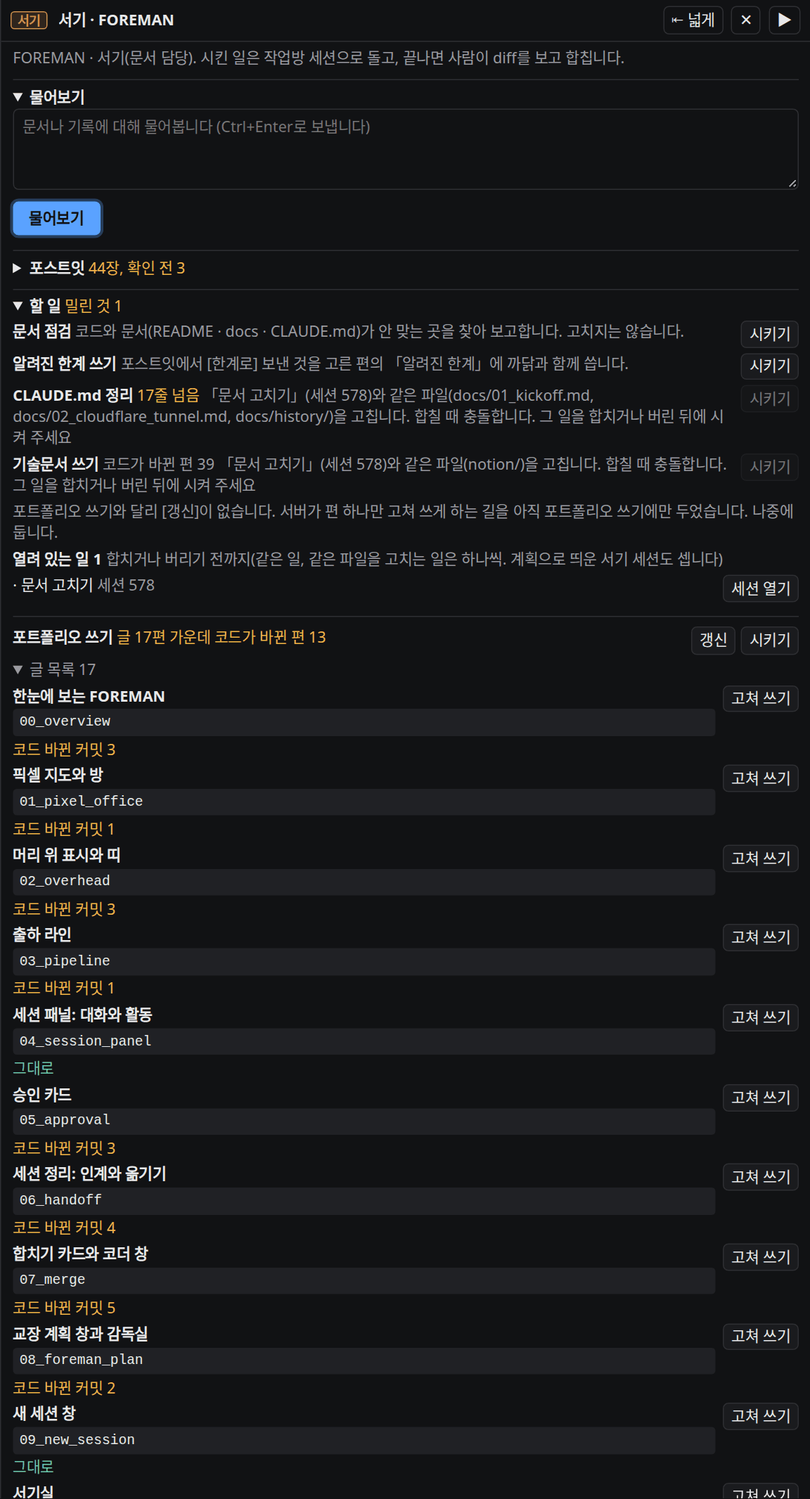
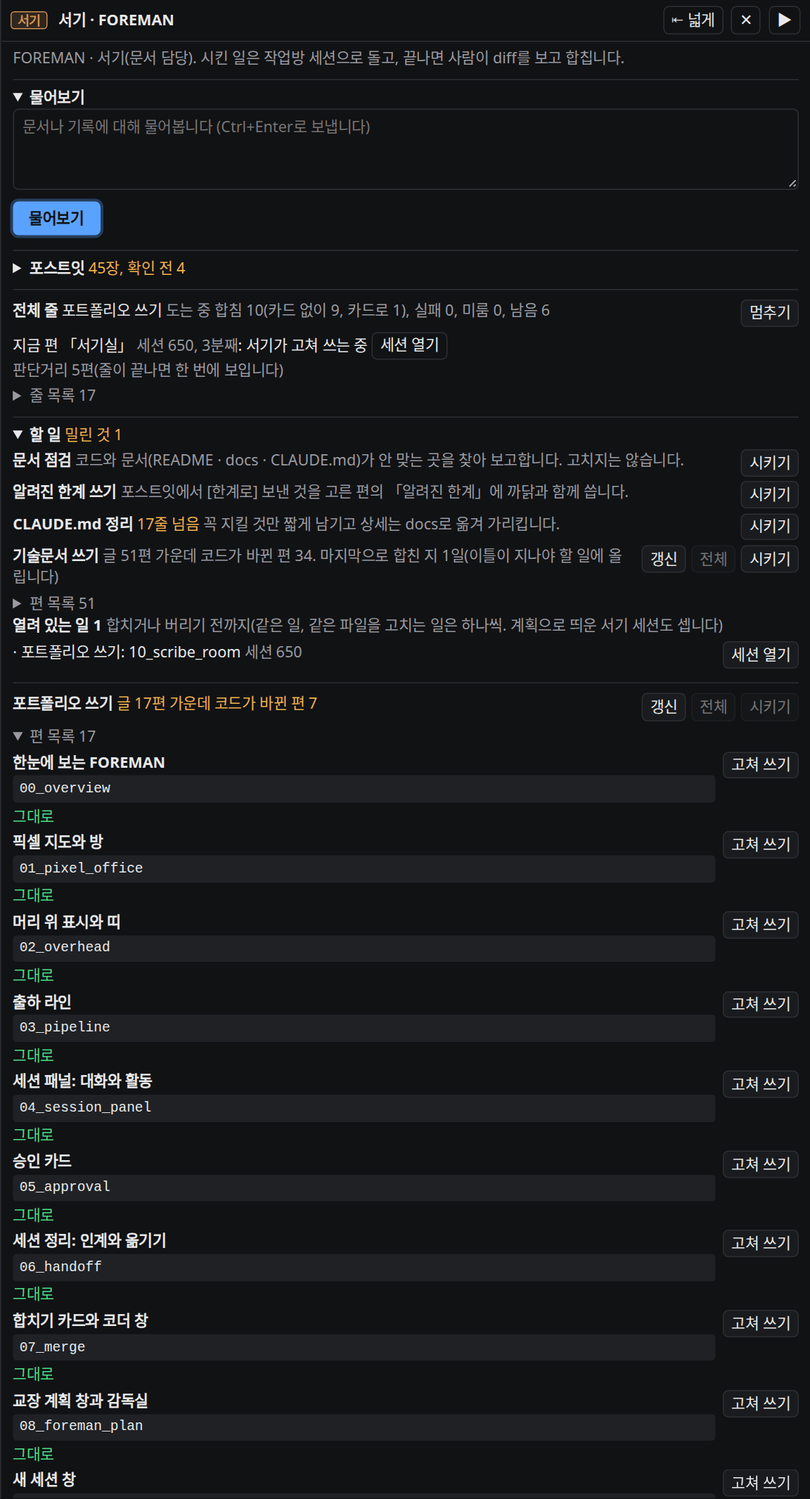
docs: 서기실 포트폴리오와 사진을 지금 화면에 맞춤
세션 650의 일(서기, 포트폴리오 쓰기: 서기실)을 커밋 2개에서 하나로 묶었다. 작업한 브랜치는 cc/foreman-4이다.

원래 커밋(오래된 차례):
- 2026-11-20 16:07 5965a23 docs: 서기실 포트폴리오를 지금 코드에 맞춤
- 2026-11-20 16:08 bd88fdf docs: 서기실 패널 사진 설명을 사진에 맞춤

원래 커밋 보기: git log refs/foreman/squashed/bd88fdfdc9b1 (이 저장소에만 있고 push되지 않는다)

diff --git a/portfolio/10_scribe_room.md b/portfolio/10_scribe_room.md
@@ -1,15 +1,15 @@
 <!--
 다루는 곳: bridge/static/js/scribe.js, bridge/scribe_room.py, bridge/scribe_queue.py, bridge/scribe_ask.py, bridge/notion.py, bridge/docsync.py, bridge/manuscript.py, bridge/api/scribe.py, bridge/api/publish.py, config/notion.toml
-읽은 커밋: fb7121b
+읽은 커밋: f0347d6
 -->
 
 # 서기실
 
 > 이 글은 문서 담당 서기에게 문서 일을 시키고, 문서에 대해 묻고, 글을 Notion에 올리는 서기실 창을 다룹니다.
 
-**프로젝트마다 문서를 맡은 서기가 있고, 서기를 누르면 서기실 창이 열립니다. 브리지가 AI 없이 센 밀린 문서 일이 한 목록으로 보이고, [시키기]를 누르면 서기 세션이 작업방에서 그 일을 한 뒤 사람이 고친 내용을 보고 합칩니다. 세션을 띄우지 않고 문서에 대해 한 번 묻는 [물어보기]와, 포트폴리오와 기술문서를 Notion에 올리는 게시도 같은 창에 있습니다.**
+**프로젝트마다 문서를 맡은 서기가 있고, 서기를 누르면 서기실 창이 열립니다. 브리지가 AI 없이 센 밀린 문서 일이 한 목록으로 보이고, [시키기]를 누르면 서기 세션이 작업방에서 그 일을 한 뒤 사람이 고친 내용을 보고 합칩니다. 바뀐 편이 여럿이면 [전체]로 줄을 세워 한 편씩 맡깁니다. 세션을 띄우지 않고 문서에 대해 한 번 묻는 [물어보기]와, 포트폴리오와 기술문서를 Notion에 올리는 게시도 같은 창에 있습니다.**
 
-![FOREMAN 방입니다. 필사실 서기 자리에 「포스트잇 쌓임」이 떠 있고, 오른쪽 패널이 서기실 창입니다. 위에서부터 물어보기, 「포스트잇 44장, 확인 전 3」, 「할 일 밀린 것 1」, 「열려 있는 일 1」, 「포트폴리오 쓰기 글 17편 가운데 코드가 바뀐 편 13」, 「포트폴리오 게시 게시됨 17」, 「기술문서 게시 게시됨 51」이 있습니다. 장 수와 편 수는 찍은 때의 것입니다 〔실제 화면〕](img/10_scribe_room.png)
+![FOREMAN 방입니다. 필사실 서기 자리에 「포스트잇 쌓임」이 떠 있고, 오른쪽 패널이 서기실 창입니다. 위에서부터 물어보기, 「포스트잇 45장, 확인 전 4」, 포트폴리오 쓰기 전체 줄(지금 편 「서기실」, 합침 10, 남음 6), 「할 일 밀린 것 1」과 일 네 줄, 「열려 있는 일 1」, 「포트폴리오 쓰기 글 17편 가운데 코드가 바뀐 편 7」, 「포트폴리오 게시」가 있습니다. 장 수와 편 수는 찍은 때의 것입니다 〔실제 화면〕](img/10_scribe_room.png)
 
 이 프로젝트에서 글은 네 군데에 남습니다. 언제 무엇을 했는지는 GitHub 커밋 기록이, 세션이 일할 때 읽는 지금 상태와 결정의 까닭은 저장소의 `docs/`가, 사람이 읽는 가장 자세한 설명은 Notion 기술문서가, 비개발자도 읽는 화면 소개는 이 포트폴리오가 맡습니다 [docs:12_scribe.md]. 코드가 바뀌면 이 글들도 따라 바뀌어야 하는데, 코드를 고치는 세션이 문서까지 늘 챙기지는 못합니다. 서기는 그 틈을 맡는 문서 담당 세션이고, 서기실은 서기에게 무엇이 밀려 있는지 보여 주고 일을 시키는 창입니다.
 
@@ -21,44 +21,52 @@
 
 ## 할 일과 시키기
 
-![서기실 창 위쪽입니다. 「물어보기」 칸, 접힌 「포스트잇 44장, 확인 전 3」, 「할 일 밀린 것 1」 아래 문서 점검, 알려진 한계 쓰기, CLAUDE.md 정리(17줄 넘음), 기술문서 쓰기(코드가 바뀐 편 39)와 줄마다 [시키기]가 있습니다. CLAUDE.md 정리와 기술문서 쓰기는 열려 있는 일과 같은 파일을 고쳐 [시키기]가 잠겼습니다. 그 아래 「열려 있는 일 1」과 [세션 열기], 「포트폴리오 쓰기」와 펼친 편 목록(사진에는 전 이름 「글 목록 17」, 편마다 「코드 바뀐 커밋 N」이나 「그대로」와 [고쳐 쓰기])이 있습니다 〔실제 화면〕](img/10_scribe_room_panel.png)
+![서기실 창입니다. 위에서부터 「물어보기」 칸, 접힌 「포스트잇 45장, 확인 전 4」, 전체 줄 칸([멈추기], 지금 편과 [세션 열기], 「판단거리 5편」, 접힌 「줄 목록 17」), 「할 일 밀린 것 1」 아래 문서 점검, 알려진 한계 쓰기, CLAUDE.md 정리(「17줄 넘음」), 기술문서 쓰기([갱신] [전체] [시키기]와 접힌 「편 목록 51」), 「열려 있는 일 1」이 있습니다. 그 아래 「포트폴리오 쓰기」 줄의 「편 목록 17」을 펼쳤고, 보이는 편은 모두 「그대로」와 [고쳐 쓰기]입니다. 이 편이 줄에서 도는 중이라 포트폴리오 쓰기의 [전체]와 [시키기]는 잠겨 있습니다 〔실제 화면〕](img/10_scribe_room_panel.png)
 
-「할 일」은 서기에게 시킬 수 있는 일 한 목록입니다. 줄마다 일 이름과 하는 일 한 줄, 그리고 밀린 정도가 붙습니다. 이 밀린 정도는 AI가 아니라 브리지가 기계로 셉니다. 규칙 파일(CLAUDE.md)이 정한 줄 수를 넘으면 「14줄 넘음」, 단계 설계 문서는 있는데 결과 기록이 없으면 「결과 없는 단계 N개」, 기술문서가 다루는 코드가 바뀌었으면 「코드가 바뀐 편 N」처럼 뜹니다. 숫자가 없으면 지금 밀린 것이 없다는 뜻입니다. 세지 못했을 때는 0으로 보이지 않고 「읽지 못했습니다」로 보입니다 [code:bridge/static/js/scribe.js].
+「할 일」은 서기에게 시킬 수 있는 일 한 목록입니다. 머리에는 밀린 일 수가 「밀린 것 N」으로 붙고, 밀린 것이 없으면 「밀린 것 없음」입니다. 줄마다 일 이름과 하는 일 한 줄, 그리고 밀린 정도가 붙습니다. 이 밀린 정도는 AI가 아니라 브리지가 기계로 셉니다. 규칙 파일(CLAUDE.md)이 정한 줄 수를 넘으면 「17줄 넘음」, 단계 설계 문서는 있는데 결과 기록이 없으면 「결과 없는 단계 N개」, 기술문서가 다루는 코드가 바뀌었으면 「코드가 바뀐 편 N」처럼 뜹니다. 숫자가 없으면 지금 밀린 것이 없다는 뜻입니다. 세지 못했을 때는 0으로 보이지 않고 「읽지 못했습니다」로 보입니다 [code:bridge/static/js/scribe.js] [code:bridge/scribe_room.py].
 
 | 일 | 하는 것 |
 |---|---|
 | 문서 점검 | 코드와 문서(README, docs, CLAUDE.md)가 안 맞는 곳을 찾아 보고합니다. 고치지는 않습니다 |
 | 알려진 한계 쓰기 | 포스트잇에서 [한계로] 보낸 것을 사람이 고른 편의 「알려진 한계」에 까닭과 함께 씁니다. 무엇이 한계인지는 원고 쓰는 기준이 정하고, 한계가 아닌 줄은 쓰지 않고 까닭을 알립니다 |
 | CLAUDE.md 정리 | 꼭 지킬 것만 짧게 남기고 자세한 것은 docs로 옮겨 가리킵니다 |
-| 기술문서 쓰기 | 코드를 읽고 Notion 기술문서 원고를 씁니다(원고 폴더를 따로 둔 프로젝트만). 포트폴리오 쓰기처럼 [갱신]과 펼치는 편 목록으로 한 편만 골라 고쳐 쓰게 할 수도 있습니다 |
-| 포트폴리오 쓰기 | 보여줄 화면이 있으면 화면마다, 없으면 결정마다 편 목록을 정해 비개발자도 읽을 글을 씁니다(아래) |
+| 기술문서 쓰기 | 코드를 읽고 Notion 기술문서 원고를 씁니다(원고 폴더를 따로 둔 프로젝트만). 줄에는 「글 N편 가운데 코드가 바뀐 편 M」과 마지막으로 합친 지 며칠인지가 보입니다 |
+| 포트폴리오 쓰기 | 보여줄 화면이 있으면 화면마다, 없으면 결정마다 편 목록을 정해 비개발자도 읽을 글을 씁니다. 할 일 목록 밖, 게시 줄 바로 위에 따로 있습니다(아래) |
 
-[시키기]를 누르면 서기 세션이 작업방으로 떠 그 일을 맡고, 그 일은 「열려 있는 일」에 올라갑니다. 합치거나 버리기 전까지 열려 있는 일과 같은 일, 또는 같은 파일을 고치는 일은 [시키기]가 잠기고 호버에 까닭이 나옵니다(위 사진의 기술문서 쓰기). 서로 다른 파일을 고치는 일은 몇 개든 동시에 시킬 수 있습니다. 열려 있는 일의 [세션 열기]는 그 서기 세션의 [세션 정리] 탭을 열어, 화면에서 사라진 끝난 세션이라도 여기서 찾아 합치거나 버리게 합니다 [docs:12_scribe.md].
+[시키기]를 누르면 서기 세션이 작업방으로 떠 그 일을 맡고, 그 일은 「열려 있는 일」에 올라갑니다. 합치거나 버리기 전까지 열려 있는 일과 같은 일, 또는 같은 파일을 고치는 일은 [시키기]가 잠기고 호버에 까닭이 나옵니다. 서로 다른 파일을 고치는 일은 몇 개든 동시에 시킬 수 있습니다. 열려 있는 일의 [세션 열기]는 그 서기 세션의 [세션 정리] 탭을 열어, 화면에서 사라진 끝난 세션이라도 여기서 찾아 합치거나 버리게 합니다 [docs:12_scribe.md].
+
+문서 점검이 끝나 합쳐지면 그 결과 파일이 문서 점검 줄 아래에 「점검 결과」로 붙고, [바로 고치기]로 거기 적힌 어긋남을 서기에게 고치게 할 수 있습니다. 찾기만 하고 끝나지 않게 하려는 것이고, 고쳐서 합친 결과는 「고쳐서 합쳤습니다」로 바뀌어 같은 결과를 또 고치라고 하지 않습니다 [code:bridge/scribe_room.py].
 
 ## 물어보기
 
-맨 위 「물어보기」 칸은 세션을 띄우지 않고 문서와 기록에 대해 한 번 묻는 곳입니다. 「이 기능은 어느 문서에 있나」, 「README가 지금 코드와 맞나」처럼 적고 [물어보기]를 누르면 보통 20초쯤 뒤 답이 칸 아래에 뜹니다. 서기는 저장소 파일, 최근 포스트잇, 최근 사흘 커밋을 읽고 답하며, 파일을 읽는 도구만 받고 고치는 도구는 받지 않습니다. 답에서 어긋남을 찾았으면 답 아래 [이 답대로 문서 고치기]로 그 답을 고칠 목록 삼아 서기 세션에 맡깁니다. 앞서 물은 것은 기억하지 않으므로, 이어서 일할 것은 [시키기]로 합니다 [code:bridge/scribe_ask.py] [log:scribe_ask_20261110.md].
+맨 위 「물어보기」 칸은 세션을 띄우지 않고 문서와 기록에 대해 한 번 묻는 곳입니다. 「이 기능은 어느 문서에 있나」, 「README가 지금 코드와 맞나」처럼 적고 [물어보기]를 누르면 보통 20초쯤 뒤 답이 칸 아래에 뜹니다. 서기는 저장소 파일, 최근 포스트잇, 최근 사흘 커밋을 읽고 답하며, 파일을 읽는 도구만 받고 고치는 도구는 받지 않습니다. 답에서 어긋남을 찾았으면 답 아래 [이 답대로 문서 고치기]로 그 답을 고칠 목록 삼아 서기 세션에 맡깁니다. 다 본 답은 [답 닫기]로 화면에서 닫습니다. 답은 서버에 남지 않고, 물은 글은 칸에 그대로 남습니다. 앞서 물은 것은 기억하지 않으므로, 이어서 일할 것은 [시키기]로 합니다 [code:bridge/scribe_ask.py] [code:bridge/static/js/scribe.js] [log:scribe_ask_20261110.md].
 
-## 포트폴리오 쓰기
+## 포트폴리오 쓰기와 전체 줄
 
-「포트폴리오 쓰기」 줄은 이 포트폴리오 글이 지금 화면과 얼마나 어긋났는지를 「글 N편 가운데 코드가 바뀐 편 M」으로 보입니다. 편마다 글 맨 위 숨은 주석에 그 편이 설명하는 코드 경로와 글을 쓸 때 읽은 커밋이 적혀 있고, 브리지는 그 뒤에 그 경로를 바꾼 기능 추가나 고침 커밋만 셉니다. [편 목록]을 펼치면 편마다 「코드 바뀐 커밋 n」, 「그대로」, 「셀 수 없음」이 붙습니다. 주석이 없는 옛 편은 바뀌지 않은 것으로 치지 않고 「머리 주석을 읽지 못한 편」으로 따로 셉니다. [갱신]은 코드가 가장 많이 바뀐 편을, 편마다 [고쳐 쓰기]는 그 편을 서기에게 다시 쓰게 하고, 편 없이 [시키기]를 누르면 서기가 보여줄 화면이 있으면 화면마다, 없으면 결정마다 편 목록부터 정합니다 [code:bridge/manuscript.py] [code:bridge/scribe_room.py] [log:foreman-7_scribe_design_20261115.md].
+「포트폴리오 쓰기」 줄은 이 포트폴리오 글이 지금 화면과 얼마나 어긋났는지를 「글 N편 가운데 코드가 바뀐 편 M」으로 보입니다. 편마다 글 맨 위 숨은 주석에 그 편이 설명하는 코드 경로와 글을 쓸 때 읽은 커밋이 적혀 있고, 브리지는 그 뒤에 그 경로를 바꾼 기능 추가나 고침 커밋만 셉니다. [편 목록]을 펼치면 편마다 「코드 바뀐 커밋 n」, 「그대로」, 「셀 수 없음」이 붙습니다. 주석이 없는 옛 편은 바뀌지 않은 것으로 치지 않고 「머리 주석을 읽지 못한 편」으로 따로 셉니다. [갱신]은 코드가 가장 많이 바뀐 편을, 편마다 [고쳐 쓰기]는 그 편을 서기에게 다시 쓰게 하고, 편 없이 [시키기]를 누르면 서기가 보여줄 화면이 있으면 화면마다, 없으면 결정마다 편 목록부터 정합니다. 기술문서 쓰기 줄에도 같은 [갱신], [전체]와 펼치는 편 목록이 있습니다 [code:bridge/manuscript.py] [code:bridge/scribe_room.py] [log:foreman-7_scribe_design_20261115.md].
 
-코드가 바뀐 편이 여럿이면 [전체]를 누릅니다. 바뀐 편을 줄로 세워 한 편씩 서기에게 맡기고, 한 편이 저장소에 합쳐진 뒤에 다음 편을 띄웁니다. 한꺼번에 띄우면 두 편이 같은 문장을 각자 고칠 수 있고, 편마다 올라오는 판단거리가 한꺼번에 쏟아지기 때문입니다. 그 편 글 하나만 고쳤고 문서 점검에 새 틀림이 없으면 합치기 카드 없이 합쳐지고, 다른 파일을 고친 편은 지금처럼 카드로 갑니다. 줄 칸에는 지금 편과 남은 편, 실패한 편과 그 까닭이 보이고, [멈추기]를 누르면 지금 편이 끝난 뒤 멈춥니다. 서기가 편마다 남긴 「사람이 정할 것」과 사람 승인이라 미룬 카드는 줄이 끝나면 한 번에 모아 보여 줍니다. 기술문서 쓰기 줄에도 같은 [전체]가 있습니다 [code:bridge/scribe_queue.py] [code:bridge/static/js/scribe.js].
+코드가 바뀐 편이 여럿이면 [전체]를 누릅니다. 바뀐 편을 줄로 세워 한 편씩 서기에게 맡기고, 한 편이 저장소에 합쳐진 뒤에 다음 편을 띄웁니다. 한꺼번에 띄우면 두 편이 같은 문장을 각자 고칠 수 있고, 편마다 올라오는 판단거리가 한꺼번에 쏟아지기 때문입니다. 그 편 글 하나만 고쳤고 문서 점검에 새 틀림이 없으면 합치기 카드 없이 합쳐지고, 다른 파일을 고친 편은 카드로 갑니다 [code:bridge/scribe_queue.py].
+
+줄이 서면 할 일 위에 「전체 줄」 칸이 생깁니다. 머리에는 합친 편 수(카드 없이와 카드로를 나눠), 실패, 미룸, 남은 편 수가 보이고, 그 아래 지금 도는 편과 몇 분째인지, 그 편 세션의 [세션 열기]가 있습니다. 접힌 「줄 목록」을 펴면 줄에 선 편마다 기다림, 도는 중, 합침, 실패, 미룸이 보입니다. [멈추기]를 누르면 지금 편은 끝까지 돌고 다음 편을 띄우지 않으며, [이어가기]로 다시 돌립니다. [줄 닫기]는 남은 편을 띄우지 않고 줄을 닫습니다. 지금 편이 15분 넘게 끝나지 않으면 그 줄이 빨갛게 「오래 안 끝남」으로 바뀌고 텔레그램으로 한 번 알립니다. 줄이 조용히 멈춘 채 남지 않게 하려는 것입니다. 서기가 편마다 남긴 「사람이 정할 것」(판단거리)과 사람 승인이라 미룬 카드는 줄이 끝나면 한 번에 모아 보여 줍니다 [code:bridge/scribe_queue.py] [code:bridge/static/js/scribe.js].
 
 ## 게시: 포트폴리오와 기술문서
 
-![FOREMAN 방 서기실 창에서 펼친 「포트폴리오 게시 게시됨 17」입니다. 편마다 게시 상태(게시됨, 휴지통)와 올린 커밋, 올린 때가 있고, 게시된 편에는 [내리기] [열기]가, 휴지통 편에는 [게시] [열기]가 붙습니다. 휴지통 줄은 편을 새로 짜면서 내린 옛 편의 페이지입니다 〔실제 화면〕](img/10_scribe_room_publish.png)
+![서기실 창 아래쪽, 「포트폴리오 쓰기」 줄 밑의 「포트폴리오 게시 게시됨 17, 바뀜 10」과 [Notion에 올리기], 「마지막으로 올림 1시간 전: 올림 3」입니다. 펼친 「편 목록 25」에는 편마다 게시 상태(게시됨, 원본이 바뀜, 휴지통)와 올린 커밋, 올린 때가 있고, 올라가 있는 편에는 [내리기]와 [열기]가, 휴지통 편에는 [열기]만 붙습니다. 휴지통 줄은 편을 새로 짜면서 내린 옛 편의 페이지입니다 〔실제 화면〕](img/10_scribe_room_publish.png)
 
-글의 원본은 git 저장소이고 Notion은 게시판입니다. 「포트폴리오 게시」 줄에는 게시된 편 수와 새 편, 바뀐 편 수, 마지막으로 올린 때가 보이고, 올릴 것이 있으면 [Notion에 올리기] 단추 하나가 나옵니다. 한 번 누르면 새 편은 만들고, 바뀐 편은 main에 커밋된 원본으로 같은 Notion 페이지에 덮어써 주소가 그대로 남고, 저장소에서 지운 편의 페이지는 휴지통으로 보내고(30일 안에 되살릴 수 있습니다), 새 편이 생기면 번호순으로 다시 세웁니다. 내용이 같은 편은 건너뜁니다. 기술문서 게시와 같은 길이라, 편마다 누르던 단추와 옛 편을 따로 치우던 단추는 없앴습니다. 같은 일을 하는 단추가 둘이면 한쪽만 고쳐지고 다른 쪽이 낡기 때문입니다 [code:bridge/docsync.py] [code:bridge/static/js/scribe.js]. 포트폴리오는 바깥 독자용이라 저장소 링크와 근거 표시를 떼고 올립니다. 글 안에서 화살표와 제목으로 다른 편을 가리킨 곳은 Notion에서 그 편 페이지로 눌러 갈 수 있게 걸립니다. 한 번 누를 때 새 편의 빈 페이지를 먼저 만들어 두므로 앞 편이 뒤 편을 가리켜도 처음 올릴 때 바로 걸립니다. 그런 제목을 가진 편이 없거나 둘이면 글자로 둔 채 게시 결과 줄에 「링크로 못 바꾼 참조」로 알려 줍니다 [code:bridge/notion.py]. 접힌 「편 목록」을 펴면 편마다 Notion에 올라간 상태와 올린 커밋이 보이고, 글은 그대로인데 링크만 다시 걸어야 하는 편은 「원본이 바뀜」이 아니라 「링크를 다시 걸어야 함」으로 따로 보입니다. 편마다 [내리기]와 [열기]가 있습니다. 버튼을 눌러야만 올라가고 저절로 올라가지 않습니다 [docs:12_scribe.md].
+글의 원본은 git 저장소이고 Notion은 게시판입니다. 「포트폴리오 게시」 줄에는 게시된 편 수와 새 편, 바뀐 편 수, 마지막으로 올린 때가 보이고, 올릴 것이 있으면 [Notion에 올리기] 단추 하나가 나옵니다. 누르면 먼저 확인 창에 새로 올릴 편, 바뀐 편, 지워진 편과 「쓴 뒤 다루는 코드가 바뀐 편」을 보입니다. 올리면 새 편은 만들고, 바뀐 편은 main에 커밋된 원본으로 같은 Notion 페이지에 덮어써 주소가 그대로 남고, 저장소에서 지운 편의 페이지는 휴지통으로 보내고(30일 안에 되살릴 수 있습니다), 새 편이 생기면 번호순으로 다시 세웁니다. 내용이 같은 편은 건너뜁니다. 기술문서 게시와 같은 길이라, 편마다 누르던 단추와 옛 편을 따로 치우던 단추는 없앴습니다. 같은 일을 하는 단추가 둘이면 한쪽만 고쳐지고 다른 쪽이 낡기 때문입니다 [code:bridge/docsync.py] [code:bridge/static/js/scribe.js].
+
+포트폴리오는 바깥 독자용이라 저장소 링크와 근거 표시를 떼고 올립니다. 글 안에서 화살표와 제목으로 다른 편을 가리킨 곳은 Notion에서 그 편 페이지로 눌러 갈 수 있게 걸립니다. 한 번 누를 때 새 편의 빈 페이지를 먼저 만들어 두므로 앞 편이 뒤 편을 가리켜도 처음 올릴 때 바로 걸립니다. 그런 제목을 가진 편이 없거나 둘이면 글자로 둔 채 게시 결과 줄에 「링크로 못 바꾼 참조」로 알려 줍니다 [code:bridge/notion.py]. 접힌 「편 목록」을 펴면 편마다 Notion에 올라간 상태와 올린 커밋이 보이고, 글은 그대로인데 링크만 다시 걸어야 하는 편은 「원본이 바뀜」이 아니라 「링크를 다시 걸어야 함」으로 따로 보입니다. 올라가 있는 편에는 [내리기]와 [열기]가 있습니다. 버튼을 눌러야만 올라가고 저절로 올라가지 않습니다 [docs:12_scribe.md].
 
 이 칸은 서기실을 연 프로젝트의 게시 상태를 읽고, [Notion에 올리기]와 내리기도 그 프로젝트의 Notion 페이지로 보냅니다. 그 프로젝트의 원본 커밋에 portfolio 폴더가 없으면 「아직 없음」으로 보이고, 원본 커밋을 읽지 못하면 없다고 넘기지 않고 읽지 못했다고 보입니다. Notion 안에서 포트폴리오를 둘 자리가 설정에 정해지지 않은 프로젝트는 상태만 보이고, [Notion에 올리기]가 그 까닭과 함께 막힙니다. 자리가 없을 때 아무 곳에나 올라가지 않게 서버도 같은 까닭으로 게시를 거절합니다. 올리다 실패한 편은 이 줄에 「실패」로, 텔레그램과 서기 할 일에도 기술문서와 같은 꼴로 뜹니다 [code:bridge/api/publish.py].
 
-「기술문서 게시」는 프로젝트마다 다르게 돕니다. 지금 FOREMAN과 인프라 저장소는 사람이 읽을 기술문서 원고를 따로 쓰고, 그 원고는 [Notion에 올리기]를 눌러야만 올라갑니다. 누르면 새로 올릴 편, 바뀐 편, 지워진 편과 「쓴 뒤 다루는 코드가 바뀐 편」을 먼저 확인 창에 보입니다. 런슈즈와 펫퍼민트는 저장소의 `docs/`를 그대로 올리고, docs 커밋을 GitHub에 올린(push) 뒤 한동안 조용하면 바뀐 파일만 저절로 갈아 끼우며 [지금 맞추기]로 바로 올릴 수도 있습니다. 포트폴리오도 기술문서도 사람이 Notion에서 직접 고친 페이지는 덮지 않고 알리며, 덮으려면 그 묶음 게시 줄 아래의 [Notion 수정 버리고 덮기]를 따로 누릅니다 [code:bridge/docsync.py] [log:foreman-4_techdoc_portfolio_path_20261115.md].
+「기술문서 게시」는 프로젝트마다 다르게 돕니다. 지금 FOREMAN과 인프라 저장소는 사람이 읽을 기술문서 원고를 따로 쓰고, 그 원고는 포트폴리오처럼 [Notion에 올리기]를 눌러야만 올라갑니다. 런슈즈와 펫퍼민트는 저장소의 `docs/`를 그대로 올리고, docs 커밋을 GitHub에 올린(push) 뒤 한동안 조용하면 바뀐 파일만 저절로 갈아 끼우며 [지금 맞추기]로 바로 올릴 수도 있습니다 [code:bridge/docsync.py] [log:foreman-4_techdoc_portfolio_path_20261115.md].
+
+포트폴리오도 기술문서도 사람이 Notion에서 직접 고친 페이지는 덮지 않고 멈춰 알립니다. 그 편은 그 묶음 게시 줄 바로 아래에 [Notion 수정 버리고 덮기]와 함께 보이고, 할 일 머리에도 빨간 「덮기 N(아래 게시 칸)」이 붙습니다. 이 단추는 접는 칸 밖에 있고 멈춘 편 목록은 게시 기록에 남아 있어서, 할 일 칸을 접어 두거나 브리지를 다시 띄워도 사라지지 않습니다. 목록을 읽지 못했거나 지금 덮을 편이 없으면 그 까닭을 글로 씁니다. Notion이 페이지 끝에 저절로 만드는 빈 문단은 사람이 고친 것으로 세지 않습니다 [code:bridge/static/js/scribe.js] [code:bridge/docsync.py] [code:bridge/notion.py].
 
 Notion 쪽 연결은 프로젝트 문서를 모아 둔 「프로젝트」 페이지 전체에 걸려 있어, 사람이 쓴 페이지도 Notion 권한으로는 막히지 않습니다. 그래서 FOREMAN이 만든 페이지 밖을 건드리지 못하게 막는 것은 브리지입니다. 브리지는 고치거나 지우거나 옮기기 전에 매번 그 페이지가 자기가 만든 페이지인지, 그 프로젝트 페이지 아래인지 Notion에서 부모를 따라 올라가 다시 확인합니다 [code:bridge/notion.py].
 
 ## 포스트잇
 
-서기실 가운데 「포스트잇 N장」은 머리줄 포스트잇과 같은 목록입니다. 미뤄 둔 할 일을 적고, 끝났는지 코드를 보고 확인하는 일은 → 「포스트잇」.
+서기실 가운데 「포스트잇 N장」은 머리줄 포스트잇과 같은 목록이고, 머리에 확인 전인 장 수와 끝난 것 같은 장 수가 함께 붙습니다. 처음에는 접혀 있고, 사람이 펼치면 그 상태를 기억합니다. 미뤄 둔 할 일을 적고, 끝났는지 코드를 보고 확인하고, 할 일이나 알려진 한계로 보내는 일은 → 「포스트잇」.
 
 [기술문서: 서기와 문서](../notion/10_scribe.md)

diff --git a/log/foreman-4_portfolio_scribe_room_20261120.md b/log/foreman-4_portfolio_scribe_room_20261120.md
@@ -1,0 +1,21 @@
+# 포트폴리오 「서기실」 고쳐 쓰기 (2026-11-20, 서기실 전체 줄 편 하나)
+
+규칙 위반 있음(아래 「규칙 위반」).
+
+## 축
+
+화면 축. 근거: 서기실은 `bridge/static/js/scribe.js`가 그리는 패널 화면이고, `tools/screen.py`와 같은 브라우저 처리로 찍을 수 있다. 기존 편도 화면 축이었다.
+
+## 한 일
+
+- 읽은 커밋 `fb7121b` → `f0347d6`. 그 사이 다루는 곳을 바꾼 커밋 20개를 보고, 원고에 이미 들어간 것(게시 하나로, 편 사이 링크, 기술문서 [갱신], [전체])과 빠진 것을 갈랐다
+- 더한 것: 할 일 머리 「밀린 것 N」, 문서 점검 결과의 [바로 고치기](`scribe.js` doccheck 줄), 물어보기 [답 닫기](`5a5031e`), 전체 줄 칸의 [멈추기] [이어가기] [줄 닫기], 「줄 목록」, 15분 「오래 안 끝남」과 텔레그램 한 번(`scribe_queue.py` `STALL_MIN`, `2203c57`), 덮기 단추 자리와 할 일 머리 「덮기 N」, 재시작 뒤에도 남음(`054783b`), 빈 문단을 사람 수정으로 세지 않음(`95cbb74`, `notion.py`)
+- 고친 것: 포트폴리오 쓰기가 할 일 목록 밖 게시 줄 위에 따로 있음(`ORDER`에 portfolio 없음), 포트폴리오 [Notion에 올리기]도 확인 창을 띄움, 편 목록의 [내리기]는 올라간 편에만 있음, 포스트잇 칸 「늘 접힌 채」 대신 처음 접힘과 펼침 기억
+- 사진 세 장을 다시 찍음(마법학교, 1920×830, 패널 1.5배, 256색 디더 없음): `10_scribe_room.png` 97KB, `_panel.png` 98KB, `_publish.png` 116KB. 옛 사진은 「글 목록」 이름, [전체] 없음, 휴지통 줄의 편마다 [게시] 단추가 있던 옛 화면이었다. 찍기는 지난 사진 세션(`foreman-4_portfolio_photos_20261119.md`)의 스크래치 스크립트를 내 스크래치로 복사해 썼다. 접은 칸은 `localStorage` `foremanDetails`로 펼쳤다. 열어 보고 비밀값, 토큰, 다른 프로젝트 글이 없음을 확인했다
+- 사진에는 이 편을 돌리는 전체 줄 자신(지금 편 「서기실」)이 찍혀 있다. 실제 화면이다
+- `tools/docs.py check`: 틀린 것 0(의심 207은 전부터 있던 것)
+
+## 규칙 위반
+
+- 도구 호출 사이 진행 글 두 줄을 영어로 썼다(사진 줄이기 직전 「System python3 has PIL then.」, 원고 쓰기 직전 「Now I'll rewrite the article.」 등). 훅이 알려 준 뒤 한국어로 돌아왔다. 커밋되는 파일에는 영향이 없다
+- 사진 줄이기를 `python3 -I -c`로 했다. 저장소 글 파일이 아니라 PNG 변환이고, 지난 사진 세션도 같은 방식이었다
